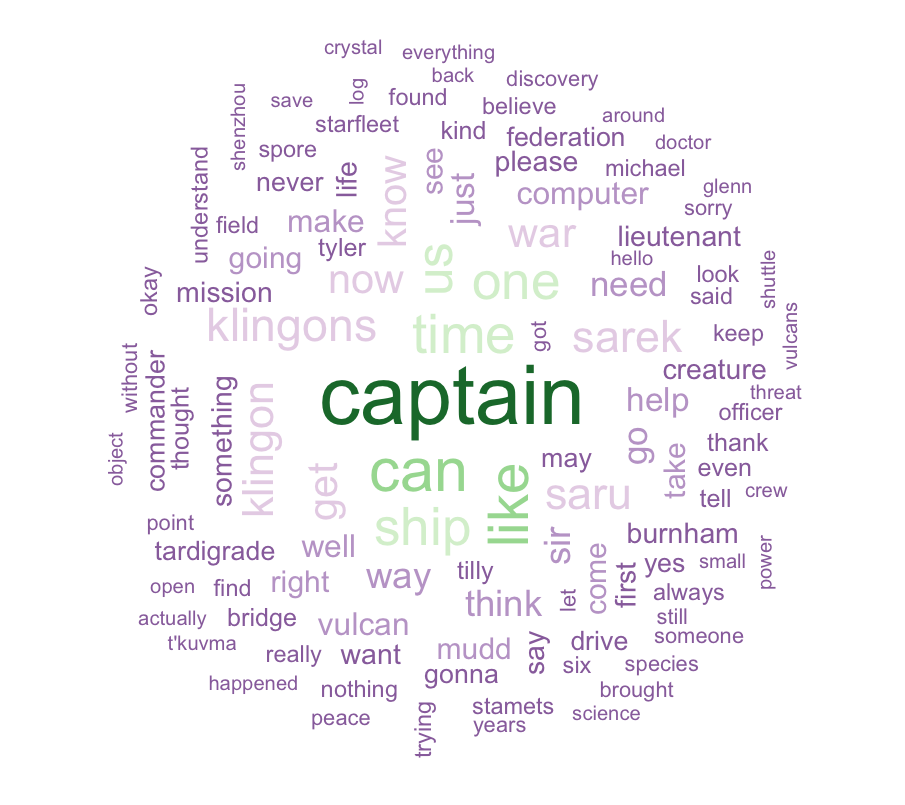
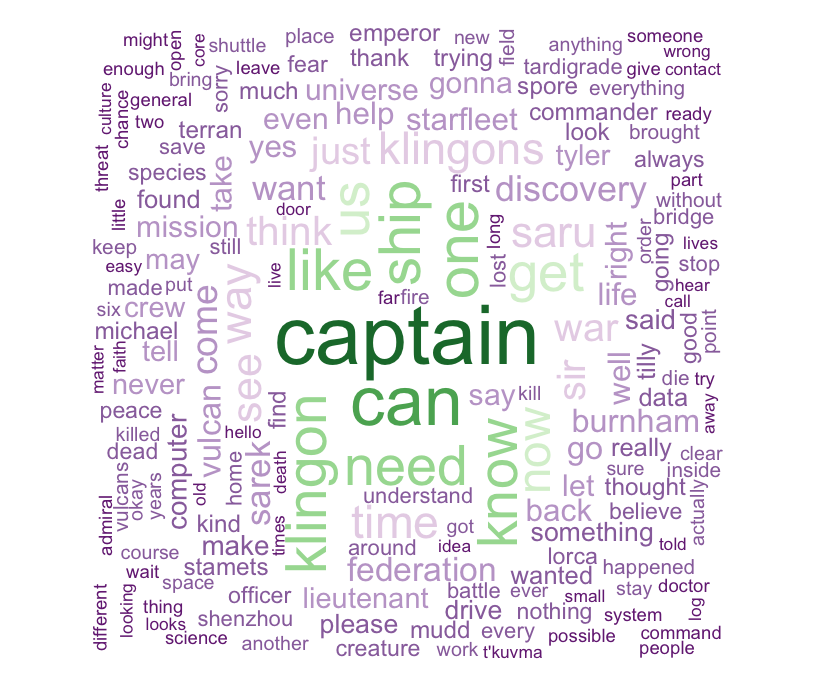
season 1 complete

Changed region(s): [[0.092, 0.0307, 0.8896, 0.9825]]

diff --git a/Burnham.py b/Burnham.py
@@ -10,7 +10,7 @@ import matplotlib.pyplot as plt
 
 
 # read the whole text
-text = open('.txt').read()  #
+text = open('./Burnham/BurnhamSpeech2.txt').read()  #
 
 
 
